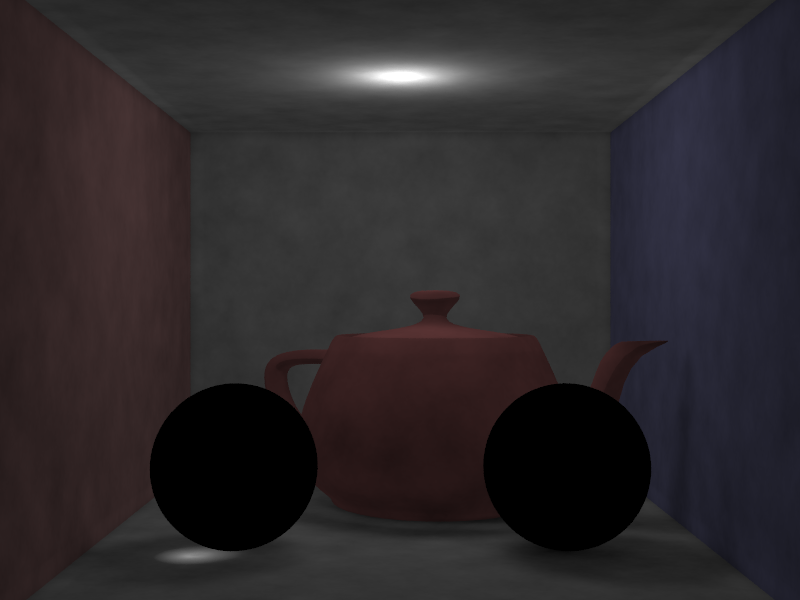
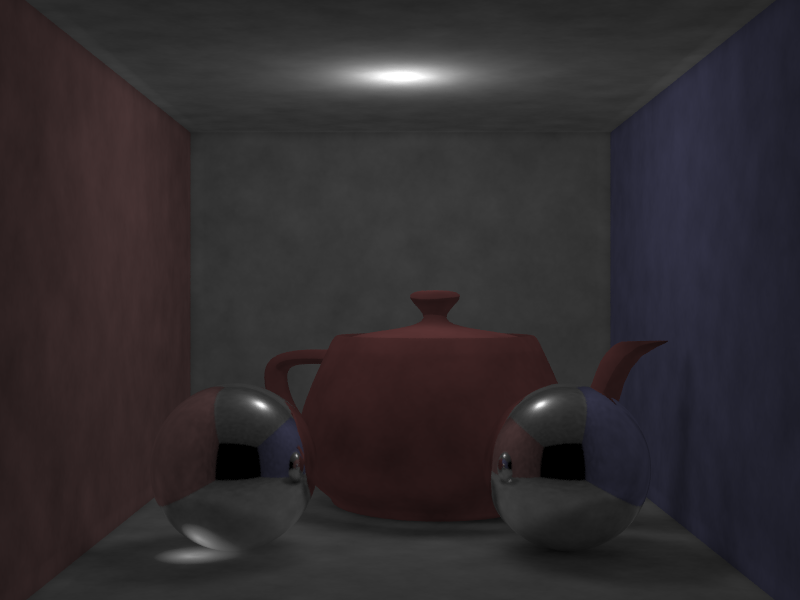
Update Blinn

Changed region(s): [[0.1875, 0.63, 0.4062, 0.93], [0.5938, 0.63, 0.8125, 0.93]]

diff --git a/BHRayTracer/DataStructure/MtlBlinn.cpp b/BHRayTracer/DataStructure/MtlBlinn.cpp
@@ -318,10 +318,12 @@ cy::Color PathTracing_GlobalIllumination(const TexturedColor& diffuse, const Tex
 			}
 
 			ClampColorToWhite(indirectColor);
+/*
 			Vec3f vL = -GIRay.dir.GetNormalized();
 			Vec3f vH = (vL + vV).GetNormalized();
 			float cosTheta = vL.Dot(vN);
-			outColor += indirectColor * (diffuse.Sample(hInfo.uvw, hInfo.duvw) * cosTheta + specular.Sample(hInfo.uvw, hInfo.duvw) * pow(vH.Dot(vN), glossiness) );
+			outColor += indirectColor * (diffuse.Sample(hInfo.uvw, hInfo.duvw) * cosTheta + specular.Sample(hInfo.uvw, hInfo.duvw) * pow(vH.Dot(vN), glossiness));*/
+			outColor += indirectColor * (useSpecular ? specular.GetColor() : diffuse.GetColor());
 		}
 		else {
 			// doesn't bounce to anything
